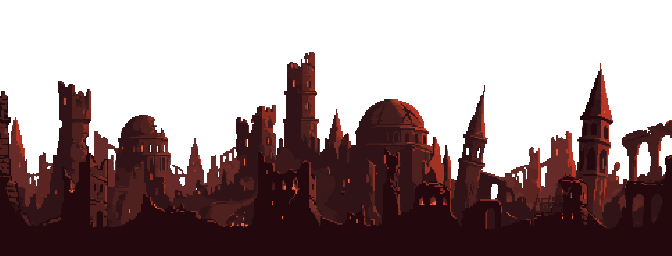
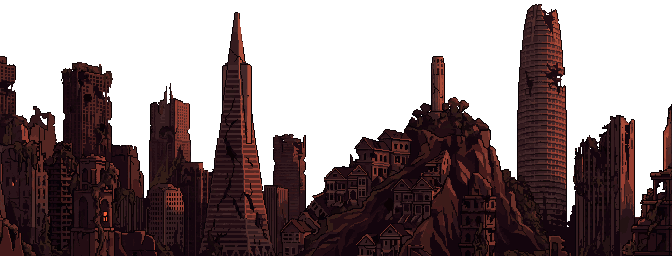
Title screen: San Francisco on the Dying Earth
The ruined skyline (Transamerica Pyramid, Coit Tower, the broken Salesforce Tower), the snapped Golden Gate and Sutro Tower on the far hills, and the keeper on a Lands End cliff by an old street lamp.

diff --git a/art/raw/NOTES.md b/art/raw/NOTES.md
@@ -27,4 +27,4 @@
 
 ## Title screen
 
-- `title/far.png`, `title/city.png`, `title/ledge.png` (from `art/raw/title`): three 672 x 256 layers on transparency, stacked at the foot of the title screen (`#vista` in index.html), each drifting slowly. The hills layer is trimmed of PixelLab's outline and raised so its ridge shows behind the city.
+- `title/far.png`, `title/city.png`, `title/ledge.png` (from `art/raw/title`): three 672 x 256 layers on transparency, stacked at the foot of the title screen (`#vista` in index.html), each drifting slowly. San Francisco on the Dying Earth: the far hills hold the broken Golden Gate (moved right by hand so both towers show between the buildings) and Sutro Tower; the city is the ruined skyline (Transamerica Pyramid, Coit Tower and its Victorians, the broken Salesforce Tower); the ledge is a Lands End cliff with an old street lamp, whose post was shortened by hand so the lamp fits under the top edge.
